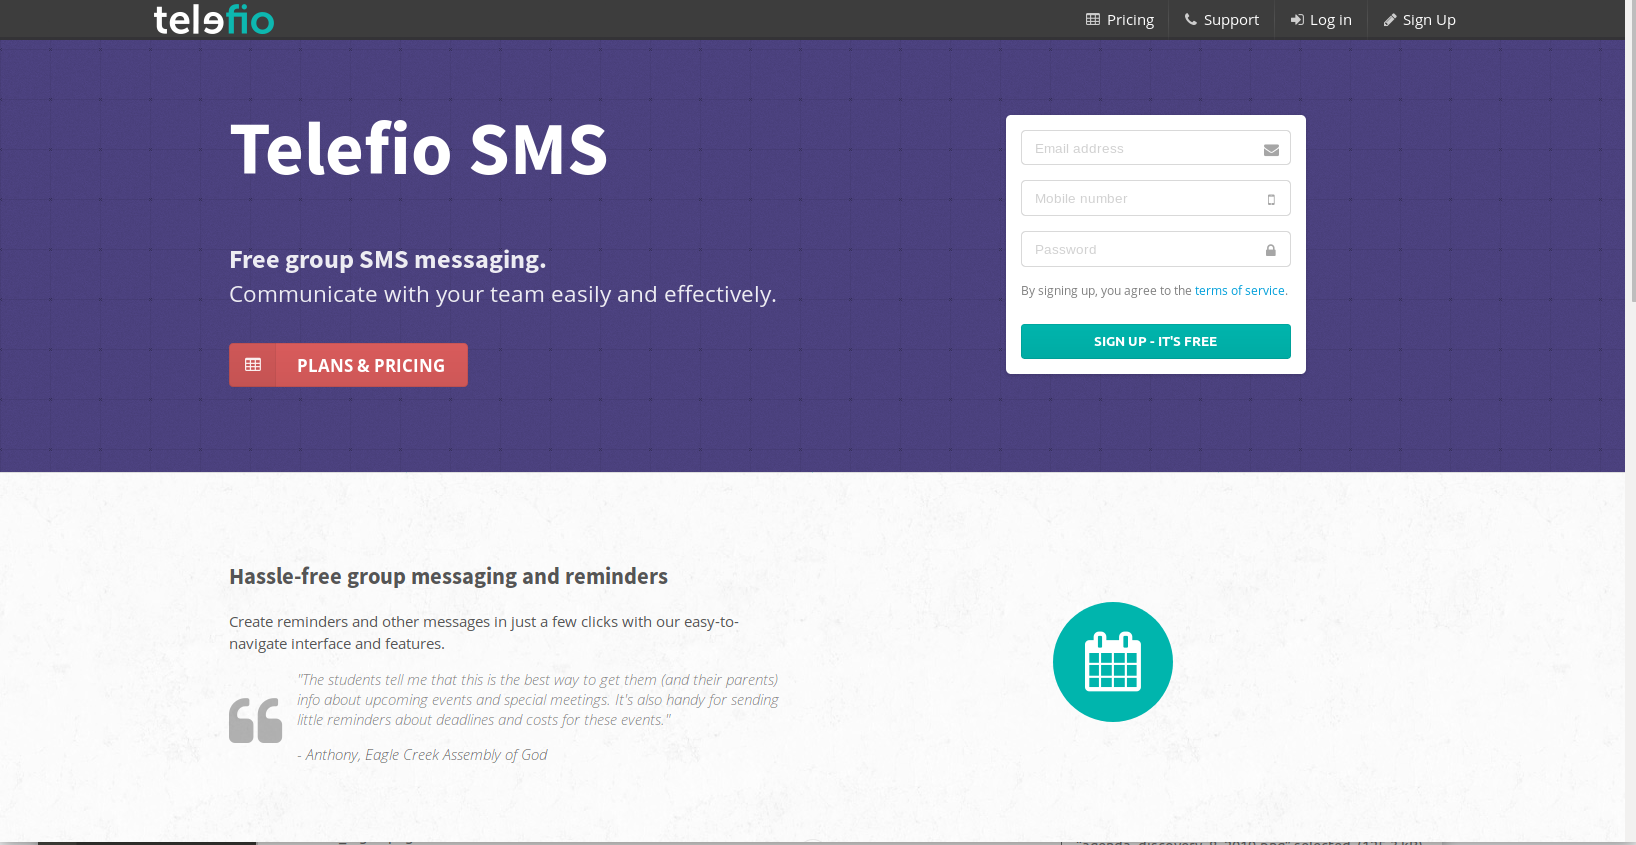
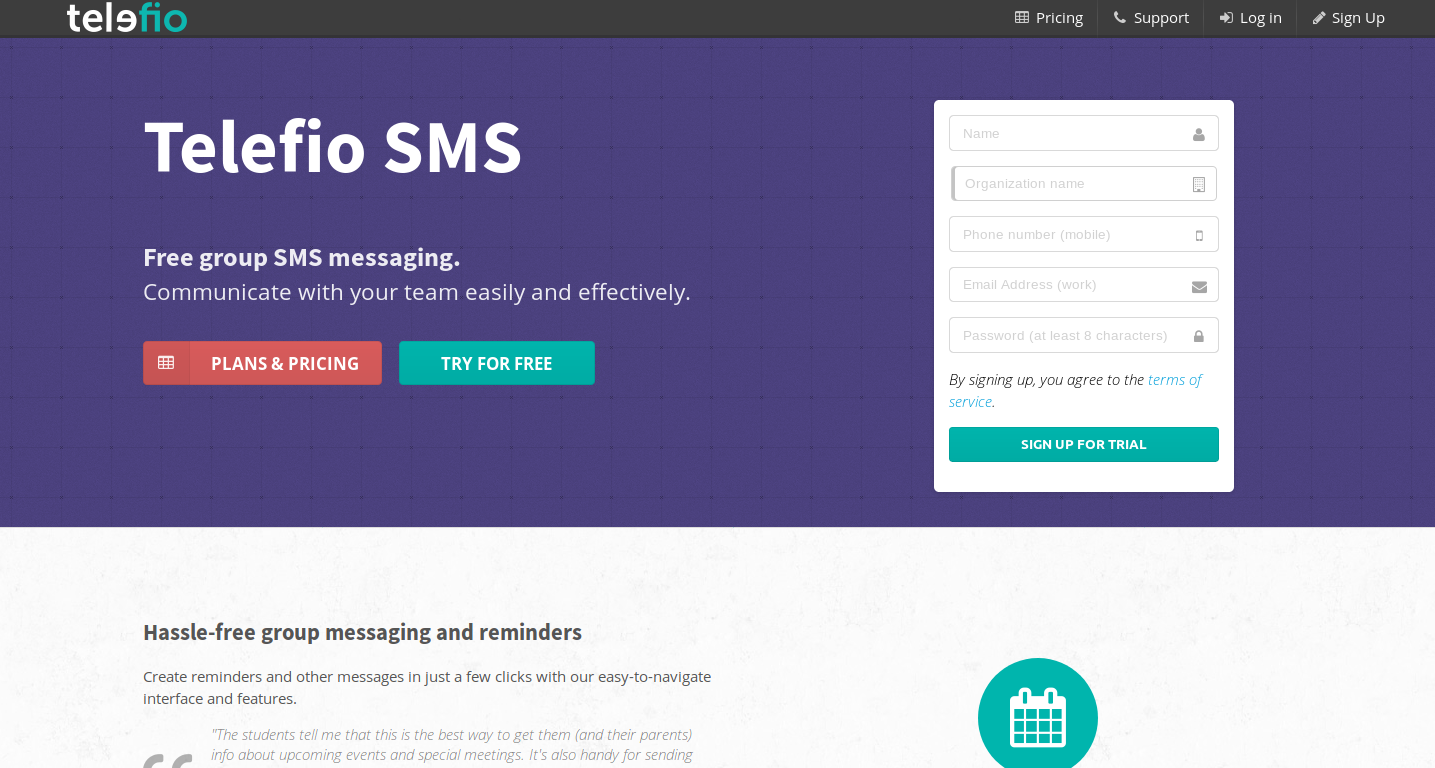
1) Cleaned up specs  2) Added better image to Telefio

diff --git a/spec/controllers/portfolio_items_controller_spec.rb b/spec/controllers/portfolio_items_controller_spec.rb
@@ -7,25 +7,20 @@ RSpec.describe PortfolioItemsController, type: :controller do
     create(:admin)
   end
 
-  pending "methods missing implementation"
-
-  describe "GET #index" do
-    # it "returns http success" do
-    #   get :index
-    #   expect(response).to have_http_status(:success)
-    # end
-  end
+  # describe "GET #index" do
+  # end
 
   describe "GET #new" do
     it "returns http success if signed in" do
       # Sign in
       session[:user_token] = "token"
-      # Try new page
+      # Try
       get :new
       expect(response).to have_http_status(:success)
     end
 
     it "returns error if not signed in" do
+      # session[:user_token] is nil
       expect{(get :new) }.to raise_error
     end
 
@@ -45,7 +40,7 @@ RSpec.describe PortfolioItemsController, type: :controller do
     it "returns http success" do
       # Sign in
       session[:user_token] = "token"
-      # Try create
+      # Try
       get :create, params:params
       expect(response).to have_http_status(:success)
     end
@@ -56,25 +51,13 @@ RSpec.describe PortfolioItemsController, type: :controller do
 
   end
 
-  describe "GET #edit" do
-    # it "returns http success" do
-    #   get :edit
-    #   expect(response).to have_http_status(:success)
-    # end
-  end
-
-  describe "GET #update" do
-    # it "returns http success" do
-    #   get :update
-    #   expect(response).to have_http_status(:success)
-    # end
-  end
-
-  describe "GET #destroy" do
-    # it "returns http success" do
-    #   get :destroy
-    #   expect(response).to have_http_status(:success)
-    # end
-  end
+  # describe "GET #edit" do
+  # end
+  #
+  # describe "GET #update" do
+  # end
+  #
+  # describe "GET #destroy" do
+  # end
 
 end

diff --git a/spec/models/transaction_spec.rb b/spec/models/transaction_spec.rb
@@ -31,8 +31,4 @@ RSpec.describe Transaction, type: :model do
       expect(tx_bad_dup.save).to be_falsey
     end
   end
-
-  describe "makes API calls", :aggregate_failures => true do
-    pending "need to finish this one"
-  end
 end #end transaction spec

diff --git a/spec/helpers/portfolio_items_helper_spec.rb b/spec/helpers/portfolio_items_helper_spec.rb
@@ -11,5 +11,4 @@ require 'rails_helper'
 #   end
 # end
 RSpec.describe PortfolioItemsHelper, type: :helper do
-  pending "add some examples to (or delete) #{__FILE__}"
 end

diff --git a/spec/helpers/admins_helper_spec.rb b/spec/helpers/admins_helper_spec.rb
@@ -11,5 +11,4 @@ require 'rails_helper'
 #   end
 # end
 RSpec.describe AdminsHelper, type: :helper do
-  pending "add some examples to (or delete) #{__FILE__}"
 end

diff --git a/spec/models/portfolio_item_spec.rb b/spec/models/portfolio_item_spec.rb
@@ -1,5 +1,4 @@
 require 'rails_helper'
 
 RSpec.describe PortfolioItem, type: :model do
-  pending "add some examples to (or delete) #{__FILE__}"
 end

diff --git a/spec/models/admin_spec.rb b/spec/models/admin_spec.rb
@@ -1,5 +1,4 @@
 require 'rails_helper'
 
 RSpec.describe Admin, type: :model do
-  pending "add some examples to (or delete) #{__FILE__}"
 end
